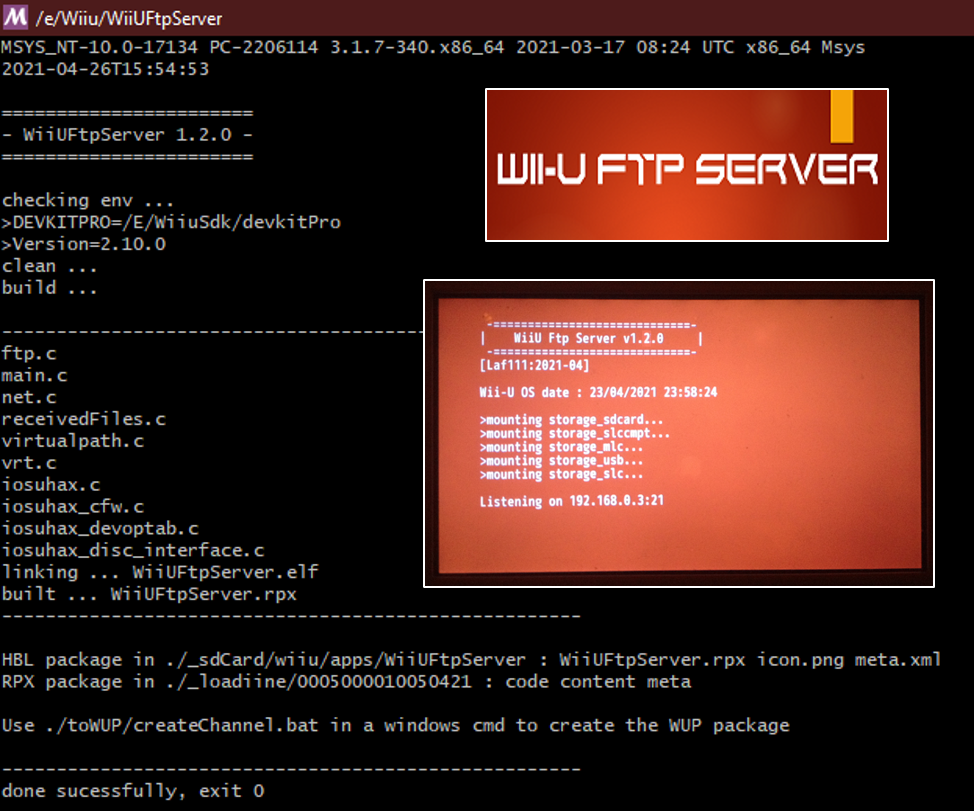
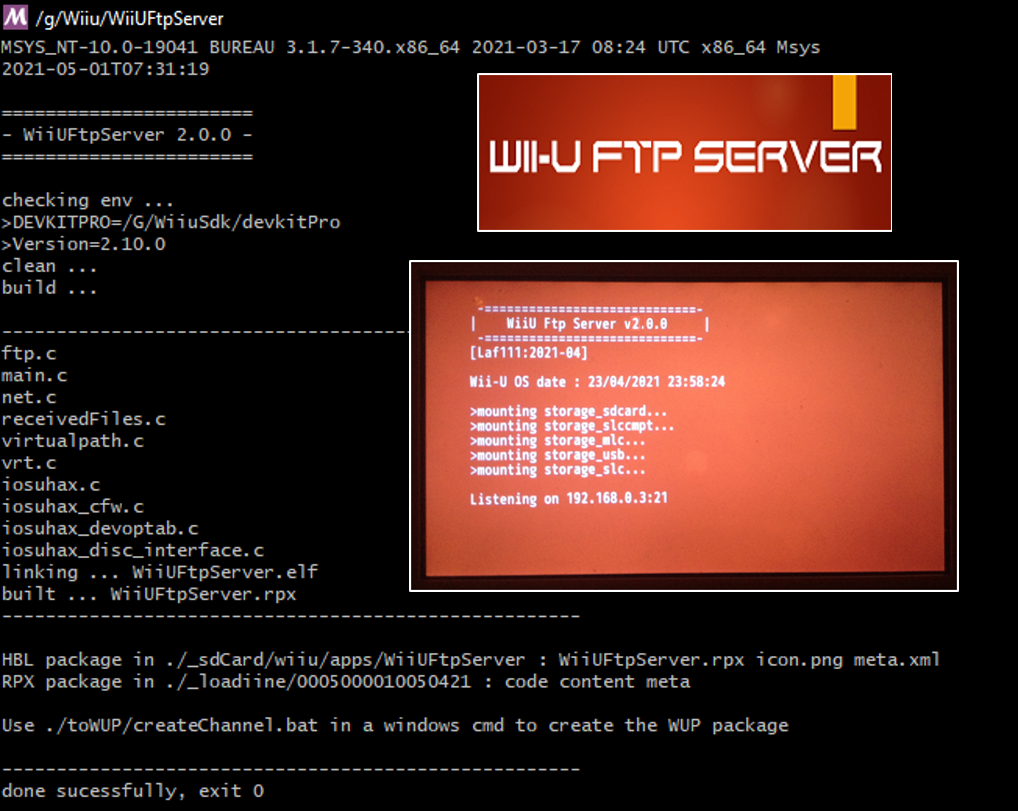
V2
2021/05/01 V2 : 
    > Fix channel creation (WUP package)
    > build.sh patch version and date in all xml files
    > remove debug code in main.c

diff --git a/src/main.c b/src/main.c
@@ -1,12 +1,15 @@
 /****************************************************************************
-  * WiiUFtpServer_dl
+  * WiiUFtpServer
   * 2021/04/05:V1.0.0:Laf111: import ftp-everywhere code
-  * 2021/04/26:V2.0.0:Laf111: remove debug code
+  * 2021/04/30:V2.0.0:Laf111: code for channel
  ***************************************************************************/
+#include <coreinit/dynload.h>
 #include <coreinit/thread.h>
 #include <coreinit/mcp.h>
+#include <coreinit/core.h>
 #include <coreinit/time.h>
 #include <coreinit/energysaver.h>
+#include <coreinit/title.h>
 #include <vpad/input.h>
 #include <whb/proc.h>
 #include <time.h>
@@ -14,6 +17,7 @@
 #include <stdlib.h>
 #include <malloc.h>
 #include <string.h> 
+
 
 #include "ftp.h"
 #include "virtualpath.h"
@@ -23,7 +27,6 @@
 #include "receivedFiles.h"
 
 #define FTP_PORT	21
-
 /****************************************************************************/
 // PARAMETERS
 /****************************************************************************/
@@ -33,8 +36,13 @@ static int fsaFd = -1;
 // mcp_hook_fd
 static int mcp_hook_fd = -1;
 
-// gamepad inputs
-VPADStatus vpad;
+// gamepad inputs (needed for channel, WHBProc HOME_BUTTON event is not enought)
+VPADStatus status;
+VPADReadError error;
+bool vpad_fatal = false;
+
+static OSDynLoad_Module coreinitHandle = NULL;
+static int32_t (*OSShutdown)(int32_t status);
 
 /****************************************************************************/
 // LOCAL FUNCTIONS
@@ -73,6 +81,10 @@ void MCPHookClose() {
     mcp_hook_fd = -1;
 }
 
+static bool isChannel() {
+    return OSGetTitleID() == 0x0005000010050421;
+}
+
 //--------------------------------------------------------------------------
 /****************************************************************************/
 // MAIN PROGRAM
@@ -81,14 +93,21 @@ int main()
 {
     // returned code :
     // =0 : OK
-    // >0 : ERRORS 
+    // <0 : ERRORS 
     int returnCode = 0;
-    
+        
     // Console init
     WHBProcInit();
     WHBLogConsoleInit();
 
     IMDisableAPD(); // Disable auto-shutdown feature
+    
+    if (isChannel()) {
+        // Initialize OSShutdown and OSForceFullRelaunch functions
+        OSDynLoad_Acquire("coreinit.rpl", &coreinitHandle);
+        OSDynLoad_FindExport(coreinitHandle, FALSE, "OSShutdown", (void **)&OSShutdown);
+        OSDynLoad_Release(coreinitHandle);    
+    }
     
     WHBLogPrintf(" -=============================-\n");
     WHBLogPrintf("|    %s     |\n", VERSION_STRING);
@@ -124,7 +143,7 @@ int main()
     IOSUHAX_CFW_Family cfw = IOSUHAX_CFW_GetFamily();
     if (cfw == 0) {
         WHBLogPrintf("ERROR No running CFW detected");
-        returnCode = 1;
+        returnCode = -10;
         goto exit;
     }
     
@@ -137,7 +156,7 @@ int main()
     }
     if (res < 0) {
         WHBLogPrintf("ERROR IOSUHAX_Open failed.");
-        returnCode = 2;
+        returnCode = -11;
         goto exit;        
     }
     
@@ -146,7 +165,7 @@ int main()
         WHBLogPrintf("ERROR IOSUHAX_FSA_Open failed.");
         if (mcp_hook_fd >= 0) MCPHookClose();
         else IOSUHAX_Close();
-        returnCode = 3;
+        returnCode = -12;
         goto exit;
     }
     
@@ -156,10 +175,16 @@ int main()
 	int nbDrives=MountVirtualDevices(fsaFd);    
     if (nbDrives == 0) {
         WHBLogPrintf("ERROR No virtual devices mounted !");
-        returnCode = 4;
+        returnCode = -20;
         goto exit;
     }
+    
+ 	OSThread *mainThread = OSGetCurrentThread();
+	OSSetThreadName(mainThread, "WiiUFtpServer");
 
+	if(!OSSetThreadPriority(mainThread, 1))
+		WHBLogPrintf("WARNING: Error changing main thread priority!");
+    
     /*--------------------------------------------------------------------------*/
     /* Starting Network                                                         */
     /*--------------------------------------------------------------------------*/
@@ -178,7 +203,7 @@ int main()
     /*--------------------------------------------------------------------------*/
     /* FTP loop                                                                 */
     /*--------------------------------------------------------------------------*/    
-    while(WHBProcIsRunning() && serverSocket >= 0 && !network_down)
+    while (serverSocket >= 0 && !network_down)
     {
         network_down = process_ftp_events(serverSocket);
         if(network_down)
@@ -187,16 +212,41 @@ int main()
 
         WHBLogConsoleDraw();
         
-        // exit if gamePad's button HOME is pressed (added to exit app when launched from WiiU menu = channel)
-        if (vpad.trigger & VPAD_BUTTON_HOME) break;
+        // check VPAD input validity
+        VPADRead(VPAD_CHAN_0, &status, 1, &error);
+        switch (error) {
+            case VPAD_READ_SUCCESS: {
+                break;
+            }
+            case VPAD_READ_NO_SAMPLES: {
+                continue;
+            }
+            case VPAD_READ_INVALID_CONTROLLER: {
+                WHBLogPrint("Gamepad disconnected!");
+                vpad_fatal = true;
+                break;
+            }
+            default: {
+                WHBLogPrintf("Unknown VPAD error! %08X", error);
+                vpad_fatal = true;
+                break;
+            }
+        }
+        // if an error occurs, exit the loop
+        if (vpad_fatal) break;
+        
+         // exit if gamePad's button HOME is pressed
+        if (status.trigger & VPAD_BUTTON_HOME) break;
     }
+    WHBLogConsoleDraw();
 
     /*--------------------------------------------------------------------------*/
     /* Cleanup and exit                                                         */
     /*--------------------------------------------------------------------------*/
     WHBLogPrintf("~~~~~~~~~~~~~~~~~~~~~~~~~~~~~~~~~~~~~~~~~~~~~~~~~~~~~~~~~~");
-    WHBLogPrintf("Exiting... ");   
     WHBLogPrintf(" ");   
+    WHBLogPrintf("Stopping server...");   
+    WHBLogPrintf(" "); 
     WHBLogConsoleDraw();
 
     cleanup_ftp();
@@ -211,14 +261,24 @@ int main()
     IOSUHAX_FSA_Close(fsaFd);
     if (mcp_hook_fd >= 0) MCPHookClose();
     else IOSUHAX_Close();
-    WHBLogPrintf(" ");   
-    WHBLogPrintf("Done, have a nice day!");   
     
 exit:
+    WHBLogPrintf(" "); 
+    if (isChannel()) {
+        WHBLogPrintf("Shuting down the Wii-U...");
+        
+    } else {
+        WHBLogPrintf("Returning to HBL Menu...");               
+    }
+    WHBLogConsoleDraw();    
+    OSSleepTicks(OSMillisecondsToTicks(1000));
+        
     WHBLogConsoleDraw();
-    OSSleepTicks(OSMillisecondsToTicks(3000));
-
     WHBLogConsoleFree();
-    WHBProcShutdown();
+    WHBProcShutdown();    
+
+    // ShutDown when launched with channel
+    if (isChannel()) OSShutdown(1);
+        
     return returnCode;
 }

diff --git a/src/ftp.c b/src/ftp.c
@@ -1,9 +1,9 @@
 /****************************************************************************
-  * WiiUFtpServer_dl
+  * WiiUFtpServer
   * 2021/04/05:V1.0.0:Laf111: import ftp-everywhere code
   * 2021/04/25:V1.1.1:Laf111: try 1980 epoch for timestamp
   * 2021/04/26:V1.2.0:Laf111: change the 421 msg 
-  * 2021/04/26:V2.0.0:Laf111: display OS date instead of J1980 (case where stat() return 0 but mtime=0)
+  * 2021/04/30:V2.0.0:Laf111: revert to timeOs for timestamp
  ***************************************************************************/
 #include <malloc.h>
 #include <stdlib.h>
@@ -471,7 +471,6 @@ static int32_t send_list(int32_t data_socket, DIR_P *iter) {
 	struct stat st;
 	int32_t result = 0;
     uint64_t size = 0;
-    time_t time;
 	char filename[MAXPATHLEN] = "";
 	char line[MAXPATHLEN + 56 + CRLF_LENGTH + 1];
 	struct dirent *dirent = NULL;
@@ -481,21 +480,11 @@ static int32_t send_list(int32_t data_socket, DIR_P *iter) {
         
 	while ((dirent = vrt_readdir(iter)) != 0) {
 		snprintf(filename, sizeof(filename), "%s/%s", iter->path, dirent->d_name);
-		if (stat(filename, &st)==0) {
-            // O return and date at 0 (OS files)
-            if (st.st_mtime==0) {
-                if (timeOs != NULL) strftime(timestamp, sizeof(timestamp), "%b %d  %Y", timeOs);                        
-                else strftime(timestamp, sizeof(timestamp), "%b %d  %Y", localtime(NULL));
-            } else {
-                // 86400*(8*365+2*366) = 315532800 (J1980)
-                time = (st.st_mtime/1000000) + 315532800;
-                strftime(timestamp, sizeof(timestamp), "%b %d  %Y", localtime(&time));
-            }
-        } else {
-            if (timeOs != NULL) strftime(timestamp, sizeof(timestamp), "%b %d  %Y", timeOs);
-            else strftime(timestamp, sizeof(timestamp), "%b %d  %Y", localtime(NULL));
-        }
+		stat(filename, &st);
+        
         size = st.st_size;
+        if (timeOs != NULL) strftime(timestamp, sizeof(timestamp), "%b %d  %Y", timeOs);                        
+        else strftime(timestamp, sizeof(timestamp), "%b %d  %Y", localtime(NULL));
 
 		snprintf(line, sizeof(line), "%crwxr-xr-x	1 0		0	 %10llu %s %s\r\n", (dirent->d_type & DT_DIR) ? 'd' : '-', size, timestamp, dirent->d_name);
 		if ((result = send_exact(data_socket, line, strlen(line))) < 0) {

diff --git a/src/virtualpath.c b/src/virtualpath.c
@@ -1,5 +1,5 @@
 /****************************************************************************
-  * WiiUFtpServer_dl
+  * WiiUFtpServer
   * 2021/04/05:V1.0.0:Laf111: import ftp-everywhere code
   * 2021/04/05:V1.2.0:Laf111: add msg when unmonting device
  ***************************************************************************/

diff --git a/src/receivedFiles.c b/src/receivedFiles.c
@@ -1,5 +1,5 @@
 /****************************************************************************
-  * WiiUFtpServer_dl
+  * WiiUFtpServer
   * 2021/04/22:V1.1.0:Laf111: creation this THREAD SAFE module
  ***************************************************************************/
 #include <malloc.h>

diff --git a/src/virtualpath.h b/src/virtualpath.h
@@ -1,5 +1,5 @@
 /****************************************************************************
-  * WiiUFtpServer_dl
+  * WiiUFtpServer
   * 2021/04/05:V1.0.0:Laf111: import ftp-everywhere code
  ***************************************************************************/
 #ifndef _VIRTUALPATH_H_

diff --git a/src/net.c b/src/net.c
@@ -1,5 +1,5 @@
 /****************************************************************************
-  * WiiUFtpServer_dl
+  * WiiUFtpServer
   * 2021/04/05:V1.0.0:Laf111: import ftp-everywhere code
  ***************************************************************************/
 #include <stdint.h>

diff --git a/src/vrt.c b/src/vrt.c
@@ -1,5 +1,5 @@
 /****************************************************************************
-  * WiiUFtpServer_dl
+  * WiiUFtpServer
   * 2021/04/05:V1.0.0:Laf111: import ftp-everywhere code
  ***************************************************************************/
 #include <errno.h>

diff --git a/src/ftp.h b/src/ftp.h
@@ -1,5 +1,5 @@
 /****************************************************************************
-  * WiiUFtpServer_dl
+  * WiiUFtpServer
   * 2021/04/05:V1.0.0:Laf111: import ftp-everywhere code
  ***************************************************************************/
 #ifndef _FTP_H_

diff --git a/src/net.h b/src/net.h
@@ -1,5 +1,5 @@
 /****************************************************************************
-  * WiiUFtpServer_dl
+  * WiiUFtpServer
   * 2021/04/05:V1.0.0:Laf111: import ftp-everywhere code
  ***************************************************************************/
 #ifndef _NET_H_

diff --git a/src/vrt.h b/src/vrt.h
@@ -1,5 +1,5 @@
 /****************************************************************************
-  * WiiUFtpServer_dl
+  * WiiUFtpServer
   * 2021/04/05:V1.0.0:Laf111: import ftp-everywhere code
  ***************************************************************************/
 #ifndef _VRT_H_

diff --git a/src/receivedFiles.h b/src/receivedFiles.h
@@ -1,5 +1,5 @@
 /****************************************************************************
-  * WiiUFtpServer_dl
+  * WiiUFtpServer
   * 2021/04/22:V1.1.0:Laf111: creation
  ***************************************************************************/
 #ifndef _RECEIVEDFILES_H_
